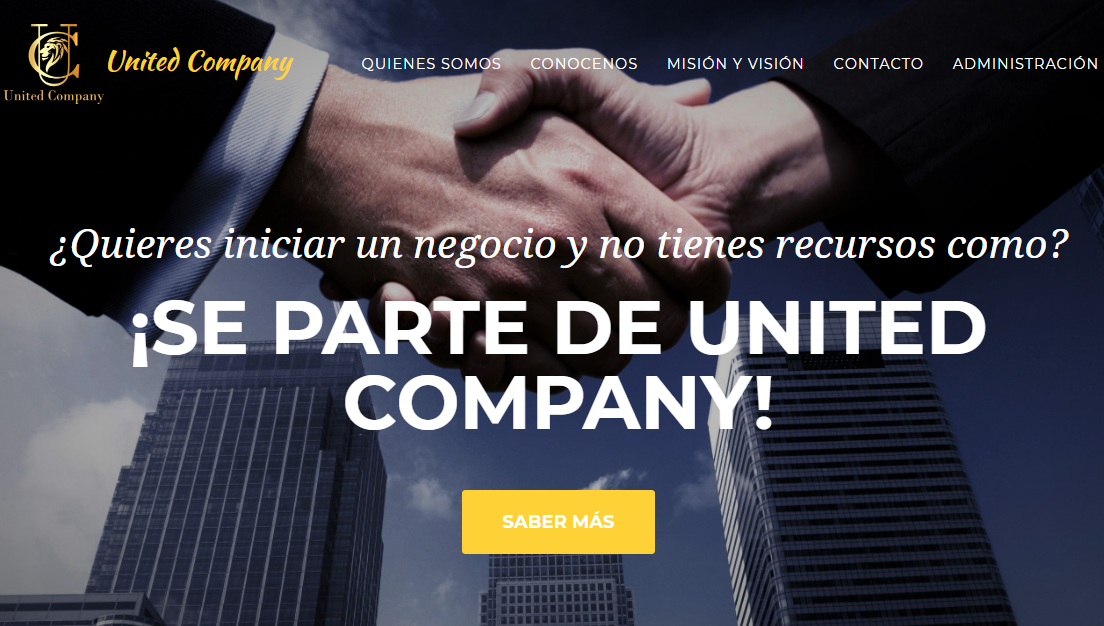
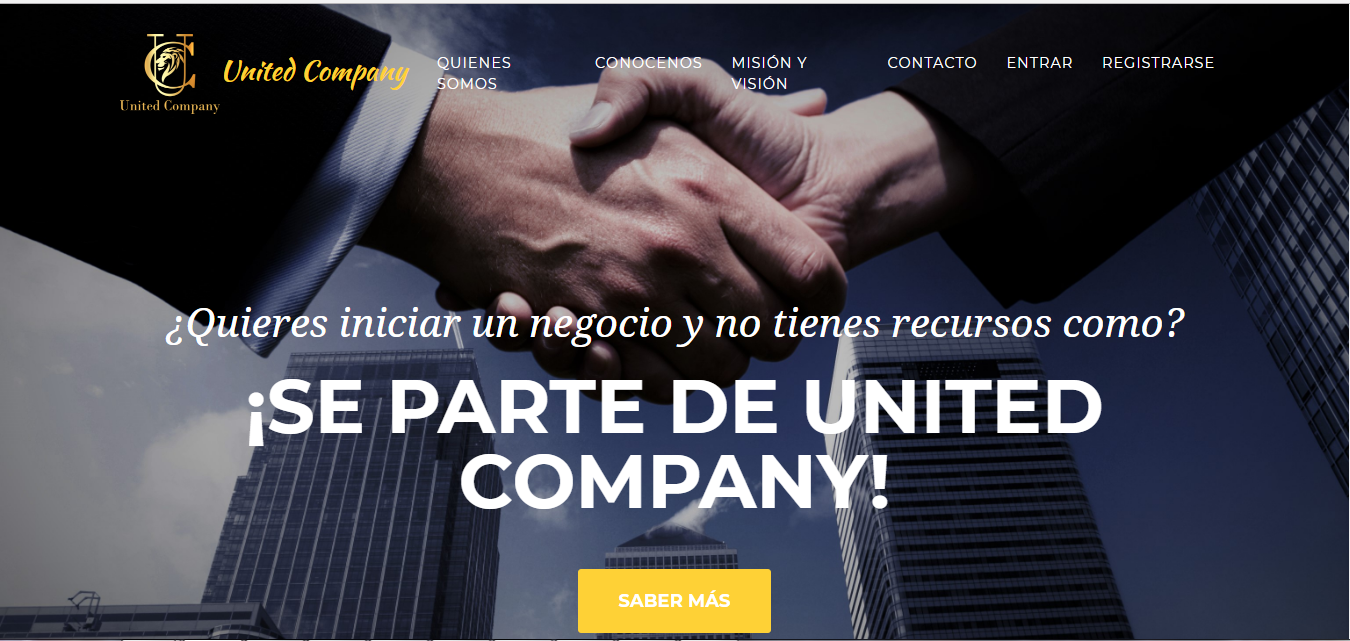
Ahora por cdn

diff --git a/css/freelancer.min.css b/css/freelancer.min.css
@@ -1,1 +1,1 @@
-body{font-family:Lato}h1,h2,h3,h4,h5,h6{font-weight:700;font-family:Montserrat}hr.star-dark,hr.star-light{max-width:15rem;padding:0;text-align:center;border:none;border-top:solid .25rem;margin-top:2.5rem;margin-bottom:2.5rem;margin-left:auto;margin-right:auto}hr.star-dark:after,hr.star-light:after{position:relative;top:-.8em;display:inline-block;padding:0 .25em;content:'\f005';font-family:FontAwesome;font-size:2em}hr.star-light{border-color:#fff}hr.star-light:after{color:#fff;background-color:#2980b9}hr.star-dark{border-color:#2c3e50}hr.star-dark:after{color:#2c3e50;background-color:#fff}section{padding:6rem 0}section h2{font-size:2.25rem;line-height:2rem}@media (min-width:992px){section h2{font-size:3rem;line-height:2.5rem}}.btn-xl{padding:1rem 1.75rem;font-size:1.25rem}.btn-social{width:3.25rem;height:3.25rem;font-size:1.25rem;line-height:2rem}.scroll-to-top{z-index:1042;right:1rem;bottom:1rem;display:none}.scroll-to-top a{width:3.5rem;height:3.5rem;background-color:rgba(33,37,41,.5);line-height:3.1rem}#mainNav{padding-top:1rem;padding-bottom:1rem;font-weight:700;font-family:Montserrat}#mainNav .navbar-brand{color:#fff}#mainNav .navbar-nav{margin-top:1rem;letter-spacing:.0625rem}#mainNav .navbar-nav li.nav-item a.nav-link{color:#fff}#mainNav .navbar-nav li.nav-item a.nav-link:hover{color:#2980b9}#mainNav .navbar-nav li.nav-item a.nav-link:active,#mainNav .navbar-nav li.nav-item a.nav-link:focus{color:#fff}#mainNav .navbar-nav li.nav-item a.nav-link.active{color:#2980b9}#mainNav .navbar-toggler{font-size:80%;padding:.8rem}@media (min-width:992px){#mainNav{padding-top:1.5rem;padding-bottom:1.5rem;-webkit-transition:padding-top .3s,padding-bottom .3s;-moz-transition:padding-top .3s,padding-bottom .3s;transition:padding-top .3s,padding-bottom .3s}#mainNav .navbar-brand{font-size:2em;-webkit-transition:font-size .3s;-moz-transition:font-size .3s;transition:font-size .3s}#mainNav .navbar-nav{margin-top:0}#mainNav .navbar-nav>li.nav-item>a.nav-link.active{color:#fff;background:#2980b9}#mainNav .navbar-nav>li.nav-item>a.nav-link.active:active,#mainNav .navbar-nav>li.nav-item>a.nav-link.active:focus,#mainNav .navbar-nav>li.nav-item>a.nav-link.active:hover{color:#fff;background:#2980b9}#mainNav.navbar-shrink{padding-top:.5rem;padding-bottom:.5rem}#mainNav.navbar-shrink .navbar-brand{font-size:1.5em}}header.masthead{padding-top:calc(6rem + 72px);padding-bottom:6rem; background-image: url(../img/cover-hero.jpg);}header.masthead h1{font-size:3rem;line-height:3rem}header.masthead h2{font-size:1.3rem;font-family:Lato}@media (min-width:992px){header.masthead{padding-top:calc(6rem + 106px);padding-bottom:6rem}header.masthead h1{font-size:4.75em;line-height:4rem}header.masthead h2{font-size:1.75em}}.portfolio{margin-bottom:-15px}.portfolio .portfolio-item{position:relative;display:block;max-width:25rem;margin-bottom:15px}.portfolio .portfolio-item .portfolio-item-caption{-webkit-transition:all ease .5s;-moz-transition:all ease .5s;transition:all ease .5s;opacity:0;background-color:rgba(24,188,156,.9)}.portfolio .portfolio-item .portfolio-item-caption:hover{opacity:1}.portfolio .portfolio-item .portfolio-item-caption .portfolio-item-caption-content{font-size:1.5rem}@media (min-width:576px){.portfolio{margin-bottom:-30px}.portfolio .portfolio-item{margin-bottom:30px}}.portfolio-modal .portfolio-modal-dialog{padding:3rem 1rem;min-height:calc(100vh - 2rem);margin:1rem calc(1rem - 8px);position:relative;z-index:2;-moz-box-shadow:0 0 3rem 1rem rgba(0,0,0,.5);-webkit-box-shadow:0 0 3rem 1rem rgba(0,0,0,.5);box-shadow:0 0 3rem 1rem rgba(0,0,0,.5)}.portfolio-modal .portfolio-modal-dialog .close-button{position:absolute;top:2rem;right:2rem}.portfolio-modal .portfolio-modal-dialog .close-button i{line-height:38px}.portfolio-modal .portfolio-modal-dialog h2{font-size:2rem}@media (min-width:768px){.portfolio-modal .portfolio-modal-dialog{min-height:100vh;padding:5rem;margin:3rem calc(3rem - 8px)}.portfolio-modal .portfolio-modal-dialog h2{font-size:3rem}}.floating-label-form-group{position:relative;border-bottom:1px solid #e9ecef}.floating-label-form-group input,.floating-label-form-group textarea{font-size:1.5em;position:relative;z-index:1;padding-right:0;padding-left:0;resize:none;border:none;border-radius:0;background:0 0;box-shadow:none!important}.floating-label-form-group label{font-size:.85em;line-height:1.764705882em;position:relative;z-index:0;top:2em;display:block;margin:0;-webkit-transition:top .3s ease,opacity .3s ease;-moz-transition:top .3s ease,opacity .3s ease;-ms-transition:top .3s ease,opacity .3s ease;transition:top .3s ease,opacity .3s ease;vertical-align:middle;vertical-align:baseline;opacity:0}.floating-label-form-group:not(:first-child){padding-left:14px;border-left:1px solid #e9ecef}.floating-label-form-group-with-value label{top:0;opacity:1}.floating-label-form-group-with-focus label{color:#2980b9}form .row:first-child .floating-label-form-group{border-top:1px solid #e9ecef}.footer{padding-top:5rem;padding-bottom:5rem;background-color:#2c3e50;color:#fff}.copyright{background-color:#1a252f}a{color:#2980b9}a:active,a:focus,a:hover{color:#128f76}.btn{border-width:2px}.bg-primary{background-color:#2980b9!important}.bg-secondary{background-color:#2c3e50!important}.text-primary{color:#2980b9!important}.text-secondary{color:#2c3e50!important}.btn-primary{background-color:#2980b9;border-color:#2980b9}.btn-primary:active,.btn-primary:focus,.btn-primary:hover{background-color:#128f76;border-color:#128f76}.btn-secondary{background-color:#2c3e50;border-color:#2c3e50}.btn-secondary:active,.btn-secondary:focus,.btn-secondary:hover{background-color:#1a252f;border-color:#1a252f}.profile-img { width: 256px;  height: 256px; border-radius: 50%;}.hero-title { font-size: 20px; }
+body{font-family:Lato}h1,h2,h3,h4,h5,h6{font-weight:700;font-family:Poppins}hr.star-dark,hr.star-light{max-width:15rem;padding:0;text-align:center;border:none;border-top:solid .25rem;margin-top:2.5rem;margin-bottom:2.5rem;margin-left:auto;margin-right:auto}hr.star-dark:after,hr.star-light:after{position:relative;top:-.8em;display:inline-block;padding:0 .25em;content:'\f005';font-family:FontAwesome;font-size:2em}hr.star-light{border-color:#fff}hr.star-light:after{color:#fff;background-color:#2980b9}hr.star-dark{border-color:#2c3e50}hr.star-dark:after{color:#2c3e50;background-color:#fff}section{padding:6rem 0}section h2{font-size:2.25rem;line-height:2rem}@media (min-width:992px){section h2{font-size:3rem;line-height:2.5rem}}.btn-xl{padding:1rem 1.75rem;font-size:1.25rem}.btn-social{width:3.25rem;height:3.25rem;font-size:1.25rem;line-height:2rem}.scroll-to-top{z-index:1042;right:1rem;bottom:1rem;display:none}.scroll-to-top a{width:3.5rem;height:3.5rem;background-color:rgba(33,37,41,.5);line-height:3.1rem}#mainNav{padding-top:1rem;padding-bottom:1rem;font-weight:700;font-family:Poppins}#mainNav .navbar-brand{color:#fff}#mainNav .navbar-nav{margin-top:1rem;letter-spacing:.0625rem}#mainNav .navbar-nav li.nav-item a.nav-link{color:#fff}#mainNav .navbar-nav li.nav-item a.nav-link:hover{color:#2980b9}#mainNav .navbar-nav li.nav-item a.nav-link:active,#mainNav .navbar-nav li.nav-item a.nav-link:focus{color:#fff}#mainNav .navbar-nav li.nav-item a.nav-link.active{color:#2980b9}#mainNav .navbar-toggler{font-size:80%;padding:.8rem}@media (min-width:992px){#mainNav{padding-top:1.5rem;padding-bottom:1.5rem;-webkit-transition:padding-top .3s,padding-bottom .3s;-moz-transition:padding-top .3s,padding-bottom .3s;transition:padding-top .3s,padding-bottom .3s}#mainNav .navbar-brand{font-size:2em;-webkit-transition:font-size .3s;-moz-transition:font-size .3s;transition:font-size .3s}#mainNav .navbar-nav{margin-top:0}#mainNav .navbar-nav>li.nav-item>a.nav-link.active{color:#fff;background:#2980b9}#mainNav .navbar-nav>li.nav-item>a.nav-link.active:active,#mainNav .navbar-nav>li.nav-item>a.nav-link.active:focus,#mainNav .navbar-nav>li.nav-item>a.nav-link.active:hover{color:#fff;background:#2980b9}#mainNav.navbar-shrink{padding-top:.5rem;padding-bottom:.5rem}#mainNav.navbar-shrink .navbar-brand{font-size:1.5em}}header.masthead{padding-top:calc(6rem + 72px);padding-bottom:6rem; background-image: url(../img/cover-hero.jpg);}header.masthead h1{font-size:3rem;line-height:3rem}header.masthead h2{font-size:1.3rem;font-family:Lato}@media (min-width:992px){header.masthead{padding-top:calc(6rem + 106px);padding-bottom:6rem}header.masthead h1{font-size:4.75em;line-height:4rem}header.masthead h2{font-size:1.75em}}.portfolio{margin-bottom:-15px}.portfolio .portfolio-item{position:relative;display:block;max-width:25rem;margin-bottom:15px}.portfolio .portfolio-item .portfolio-item-caption{-webkit-transition:all ease .5s;-moz-transition:all ease .5s;transition:all ease .5s;opacity:0;background-color:rgba(24,188,156,.9)}.portfolio .portfolio-item .portfolio-item-caption:hover{opacity:1}.portfolio .portfolio-item .portfolio-item-caption .portfolio-item-caption-content{font-size:1.5rem}@media (min-width:576px){.portfolio{margin-bottom:-30px}.portfolio .portfolio-item{margin-bottom:30px}}.portfolio-modal .portfolio-modal-dialog{padding:3rem 1rem;min-height:calc(100vh - 2rem);margin:1rem calc(1rem - 8px);position:relative;z-index:2;-moz-box-shadow:0 0 3rem 1rem rgba(0,0,0,.5);-webkit-box-shadow:0 0 3rem 1rem rgba(0,0,0,.5);box-shadow:0 0 3rem 1rem rgba(0,0,0,.5)}.portfolio-modal .portfolio-modal-dialog .close-button{position:absolute;top:2rem;right:2rem}.portfolio-modal .portfolio-modal-dialog .close-button i{line-height:38px}.portfolio-modal .portfolio-modal-dialog h2{font-size:2rem}@media (min-width:768px){.portfolio-modal .portfolio-modal-dialog{min-height:100vh;padding:5rem;margin:3rem calc(3rem - 8px)}.portfolio-modal .portfolio-modal-dialog h2{font-size:3rem}}.floating-label-form-group{position:relative;border-bottom:1px solid #e9ecef}.floating-label-form-group input,.floating-label-form-group textarea{font-size:1.5em;position:relative;z-index:1;padding-right:0;padding-left:0;resize:none;border:none;border-radius:0;background:0 0;box-shadow:none!important}.floating-label-form-group label{font-size:.85em;line-height:1.764705882em;position:relative;z-index:0;top:2em;display:block;margin:0;-webkit-transition:top .3s ease,opacity .3s ease;-moz-transition:top .3s ease,opacity .3s ease;-ms-transition:top .3s ease,opacity .3s ease;transition:top .3s ease,opacity .3s ease;vertical-align:middle;vertical-align:baseline;opacity:0}.floating-label-form-group:not(:first-child){padding-left:14px;border-left:1px solid #e9ecef}.floating-label-form-group-with-value label{top:0;opacity:1}.floating-label-form-group-with-focus label{color:#2980b9}form .row:first-child .floating-label-form-group{border-top:1px solid #e9ecef}.footer{padding-top:5rem;padding-bottom:5rem;background-color:#2c3e50;color:#fff}.copyright{background-color:#1a252f}a{color:#2980b9}a:active,a:focus,a:hover{color:#128f76}.btn{border-width:2px}.bg-primary{background-color:#2980b9!important}.bg-secondary{background-color:#2c3e50!important}.text-primary{color:#2980b9!important}.text-secondary{color:#2c3e50!important}.btn-primary{background-color:#2980b9;border-color:#2980b9}.btn-primary:active,.btn-primary:focus,.btn-primary:hover{background-color:#128f76;border-color:#128f76}.btn-secondary{background-color:#2c3e50;border-color:#2c3e50}.btn-secondary:active,.btn-secondary:focus,.btn-secondary:hover{background-color:#1a252f;border-color:#1a252f}.profile-img { width: 256px;  height: 256px; border-radius: 50%;}.hero-title { font-size: 20px; font-family: 'Poppins'; }hr.star-light:after { background-color: rgba(0,0,0,.10);}

diff --git a/index.html b/index.html
@@ -15,7 +15,7 @@
     <link href="https://stackpath.bootstrapcdn.com/font-awesome/4.7.0/css/font-awesome.min.css" rel="stylesheet" integrity="sha384-wvfXpqpZZVQGK6TAh5PVlGOfQNHSoD2xbE+QkPxCAFlNEevoEH3Sl0sibVcOQVnN" crossorigin="anonymous">
     <link href="https://fonts.googleapis.com/css?family=Montserrat:400,700" rel="stylesheet" type="text/css">
     <link href="https://fonts.googleapis.com/css?family=Lato:400,700,400italic,700italic" rel="stylesheet" type="text/css">
-
+    <link href="https://fonts.googleapis.com/css?family=Poppins" rel="stylesheet">
     <!-- Plugin CSS -->
     <link rel="stylesheet" href="https://cdnjs.cloudflare.com/ajax/libs/magnific-popup.js/1.1.0/magnific-popup.min.css" />
     <!-- Custom styles for this template -->
@@ -74,7 +74,7 @@
     <!-- Portfolio Grid Section -->
     <section class="portfolio" id="portfolio">
       <div class="container">
-        <h2 class="text-center text-uppercase text-secondary mb-0 reveal-title">Portafolio</h2>
+        <h2 class="text-center text-uppercase text-secondary mb-0 reveal-title ">Portafolio</h2>
         <hr class="star-dark mb-5">
         <div class="row">
           <div class="col-md-6 col-lg-4 reveal">
@@ -148,7 +148,7 @@
         <hr class="star-light mb-5">
         <div class="row">
           <div class="col-lg-4 ml-auto reveal">
-            <h4 class="text-center mb-5"> </h4>
+            <h4 class="text-center mb-5">¿Quién Soy?</h4>
 
             <p class="lead"><i class="fa fa-star"></i> Soy un programador Venezolano, entusiasta de la programación web.</p>
             <p class="lead"><i class="fa fa-star"></i> Programador Junior PHP con experiencia de 2 años</p>
@@ -184,7 +184,7 @@
 
         <div class="container-text-center">
           <p class="lead text-center">Teléfono: <a href="tel:+584123461587">+584123461587</a></p>
-          <p class="lead text-center">E-Mail <a href="mailto:r.gilcamejo@gmail.com">r.gilcamejo@gmail.com</a></p>
+          <p class="lead text-center">E-Mail <a href="mailto:randygil@webcoding.cl">randygil@webcoding.cl</a></p>
         </div>
         
         <h3 class="text-center text-uppercase text-secondary mb-0 reveal">Formulario de Contacto</h3>
@@ -220,7 +220,7 @@
               <div class="control-group">
                 <div class="form-group floating-label-form-group controls mb-0 pb-2">
                   <label>Mensaje</label>
-                  <textarea class="form-control" id="message" rows="5" placeholder="Message" required="required" data-validation-required-message="Por favor ingresa el mensaje"></textarea>
+                  <textarea class="form-control" id="message" rows="5" placeholder="Mensaje" required="required" data-validation-required-message="Por favor ingresa el mensaje"></textarea>
                   <p class="help-block text-danger"></p>
                 </div>
               </div>
@@ -276,11 +276,13 @@
               </li-->
             </ul>
           </div>
-          <!--div class="col-md-4">
-            <h4 class="text-uppercase mb-4"></h4>
-            <p class="lead mb-0">Freelance is a free to use, open source Bootstrap theme created by
-              <a href="http://startbootstrap.com">Start Bootstrap</a>.</p>
-          </div-->
+          <div class="col-md-4">
+            <blockquote class="blockquote">“Sólo podemos ver poco del futuro, pero lo suficiente para darnos cuenta de que hay mucho que hacer”
+
+
+            </blockquote>
+              <small>Alan Turing</small>
+          </div>
         </div>
       </div>
     </footer>
